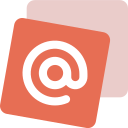
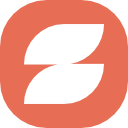
Added updated branding ✨ (improved branding includes updated images, README and CHANGELOG, and word choice throughout, thanks to the most popular LLM)

diff --git a/src/pages/popup/components/Footer.tsx b/src/pages/popup/components/Footer.tsx
@@ -4,25 +4,16 @@ import { version } from "/~/package.json";
 
 export default function Footer() {
   return (
-    <Box display="flex" px={2} py={1} justifyContent="space-between">
-      <Typography variant="caption">v{version}</Typography>
-      <Typography alignItems="center" variant="caption">
+    <Box px={2} py={1}>
+      <Typography variant="caption">
+        v{version}{" • "}
         See the open source code on{" "}
         <a
-          href="https://github.com/lewxdev/signup-subaddressing"
+          href="https://github.com/lewxdev/subify"
           rel="noopener noreferrer"
           target="_blank"
         >
           GitHub
-        </a>
-        {" • "}
-        Icon by{" "}
-        <a
-          href="https://www.flaticon.com/free-icon/at_1626329"
-          rel="noopener noreferrer"
-          target="_blank"
-        >
-          Pixelmeetup
         </a>
       </Typography>
     </Box>

diff --git a/src/pages/popup/components/DetailsTable.tsx b/src/pages/popup/components/DetailsTable.tsx
@@ -33,9 +33,9 @@ export default function DetailsTable() {
 
     const emailAddresses = options.find((item) => item.isLastSelected)!;
     const [address, domain] = emailAddresses.key.split("@");
-    const hash = alder32.str(activeTabURL.host).toString(16);
+    const tag = alder32.str(activeTabURL.host).toString(16);
 
-    return { value: `${address}+${hash}@${domain}` };
+    return { value: `${address}+${tag}@${domain}` };
   })();
 
   const handleCopy = async () => {

diff --git a/crxjs.config.ts b/crxjs.config.ts
@@ -17,8 +17,8 @@ export default defineManifest({
   description,
   icons: {
     "16": "assets/icon-16.png",
-    "128": "assets/icon-128.png",
-    "256": "assets/icon-256.png"
+    "48": "assets/icon-48.png",
+    "128": "assets/icon-128.png"
   },
 
   // optional

diff --git a/README.md b/README.md
@@ -1,45 +1,71 @@
-# Signup Subaddressing #
+<div align="center">
+  <img alt="Subify logo" height="60" src="./public/assets/logo.png" />
+  <br />
+  <br />
+  <a href="https://chrome.google.com/webstore/detail/mkjgbogdoogelppeoecjeidjljhhbcdg">
+    <img
+      alt="Chrome Web Store (version)"
+      src="https://img.shields.io/chrome-web-store/v/mkjgbogdoogelppeoecjeidjljhhbcdg?style=flat-square" />
+  </a>
+  <img
+    alt="Chrome Web Store (users)"
+    src="https://img.shields.io/chrome-web-store/users/mkjgbogdoogelppeoecjeidjljhhbcdg?style=flat-square" />
+</div>
 
-# About #
-This Chrome Extension creates a unique [subaddress](https://en.wikipedia.org/wiki/Email_address#Subaddressing)
-for the current active tab (given the user has provided a valid email address).
-This is done by retrieving the active tab URL, performing a hash on its [host](https://developer.mozilla.org/en-US/docs/Web/API/URL/host)
-and creating a unique subaddress using the first eight characters of the hash as
-the tag.
+---
 
-For example, this is useful in circumstances where the user is hesitant to give
-out their email address to a suspicious website or a certain website is known
-for sending unwanted mail. Using subaddresses in this way makes it easy to clear
-email inboxes by blocking emails sent to some subaddress rather than
-unsubscribing (which relies on the services' servers and may provide a non-
-intuitive interface)
+Subify is a web extension for Google Chrome[^1] that enables users to create
+unique [subaddresses](https://en.wikipedia.org/wiki/Email_address#Subaddressing)
+for each website they visit (done by using the
+[adler-32](https://en.wikipedia.org/wiki/Adler-32)[^2] checksum of the
+[host](https://developer.mozilla.org/en-US/docs/Web/API/URL/host) of the active
+tab).
 
-## Permissions ##
+This empowers users to more effectively manage their inbox and protect their
+privacy. Useful when providing an email address to a website that may be
+suspicious or known for sending unwanted mail. Using subaddresses in this way
+makes it easy to determine the source of emails and create filters to block
+specific emails without unsubscribing (which often relies on 3rd-party services
+that likely provide a non-intuitive interface).
+
+Built with ♥ and TypeScript :)
+
+## Permissions
+
 The extension requests only minimal necessary permissions in order to respect
-privacy and adhere to [the Web Store's updated privacy policy](https://developer.chrome.com/docs/webstore/user_data/)
+privacy and adhere to the Chrome Web Store's
+[updated privacy policy](https://developer.chrome.com/docs/webstore/user_data/).
 
-+ [`activeTab`](https://developer.chrome.com/docs/extensions/mv3/manifest/activeTab/) -
-Allows the extension to retrieve the URL of the currently active tab
-+ [`storage`](https://developer.chrome.com/docs/extensions/reference/storage/) -
-Allows the extension to store the user-provided email address (which is parsed
-into the resulting subaddress)
+- [`activeTab`](https://developer.chrome.com/docs/extensions/mv3/manifest/activeTab/) -
+  Allows the extension to retrieve the URL of the currently active tab
+- [`storage`](https://developer.chrome.com/docs/extensions/mv3/manifest/storage/) -
+  Allows the extension to store the user-provided email address(es)
 
-## Dependencies ##
-In development, the extension requires a few dependencies for the UI and
-functionality.
+## Dependencies
 
-* [`@mui/material`](https://mui.com/) - Used as the framework for visual
-components such as the popup, allowing for rapid development of UI.
-(`@emotion/react`, `@emotion/styled`, and `@mui/icons-material` are also
-included)
-* [`alder-32`](https://www.npmjs.com/package/alder-32) - Provides the hashing
-function used in the subaddress
-* [`lodash`](https://lodash.com/) - While not strictly necessary, this library
-provides a number of useful functions for manipulating strings and objects
-* [`react`](https://reactjs.org/) - Serves as the framework for the extension's
-UI (`react-dom` is also included)
-* [`zod`](https://zod.dev/) - Provides types, schema, and validation throughout
+The extension requires a few dependencies for the UI and functionality.
 
-## Contributing ##
+- [`@mui/material`](https://mui.com/) - Used as the framework for visual
+  components such as the popup, allowing for rapid development of UI.
+  (`@emotion/react`, `@emotion/styled`, and `@mui/icons-material` are also
+  included)
+- [`adler-32`](https://www.npmjs.com/package/adler-32) - Provides the hashing
+  function used in the subaddress
+- [`lodash`](https://lodash.com/) - While not strictly necessary, this library
+  provides a number of useful functions for manipulating strings and objects
+- [`react`](https://reactjs.org/) - Serves as the framework for the extension's
+  UI (`react-dom` is also included)
+- [`zod`](https://zod.dev/) - Provides types, schema, and validation throughout
+
+---
+
 Contributing is welcome, just be sure to fork the package repository and submit
 a pull request on your changes.
+
+[^1]:
+    Currently only available on the Chrome Web Store, but may be made
+    available on the Firefox Add-ons Store in the future.
+
+[^2]:
+    Adler-32 was chosen as the checksum function because of it's speed,
+    collision-resistance, and length (8 characters).

diff --git a/CHANGELOG.md b/CHANGELOG.md
@@ -7,53 +7,60 @@ and generally adheres to [Semantic Versioning](https://semver.org/spec/v2.0.0.ht
 
 ## [Unreleased]
 
-## [2.0.0] - 2023-03-29
+## [2.0.0] - 2023-04-01
 
 ### Added
-- `CHANGELOG.md` file, following [Keep a Changelog](https://keepachangelog.com/en/1.0.0/)
-format.
+
+- `CHANGELOG.md` file, to document changes made to the project.
 - `.editorconfig` and `.prettierrc` files, to keep code style consistent.
 - programmatic manifest generation and dynamic development server (using
-[@crxjs/vite-plugin](https://crxjs.dev/vite-plugin/)).
+  [@crxjs/vite-plugin](https://crxjs.dev/vite-plugin/)).
 - `useChromeStorageWithReducer()` hook, to allow for more complex state
-management.
+  management.
 - `useEmailAddresses()`, which makes use of the new reducer-based hook to
-store and interact with *multiple* email addresses.
+  store and interact with _multiple_ email addresses.
 - the use of an Autocomplete component, to allow for selecting one of
-potentially multiple stored email addresses.
-- a footer to the Popup component, to display the current extension version,
-link to the GitHub repository, and attribution for the free icon.
+  potentially multiple stored email addresses.
+- a footer to the Popup component, to display the current extension version and
+  link to the GitHub repository.
 - the option to save an email address as the default, (which will be used
-as a fallback when deleting the last selected, and the preferred for autofill
-[unimplemented]).
+  as a fallback when deleting the last selected, and the preferred for autofill
+  [unimplemented]).
 - CI/CD pipeline using GitHub Actions, to automatically build and publish
-releases of the extension to the Chrome Web Store. As outlined in
-[this article](https://jam.dev/blog/automating-chrome-extension-publishing/).
+  releases of the extension to the Chrome Web Store. As outlined in
+  [this article](https://jam.dev/blog/automating-chrome-extension-publishing/).
+- branding for the extension, now including promotional images and improved
+  screenshots, as outlined in
+  [the documentation](https://developer.chrome.com/docs/webstore/images/).
 
 ### Changed
+
+- extension name and related branding to "Subify", to improve discoverability
+  and general recognition.
 - `README.md` file, to reflect the changes made to the project.
 - development environment to use [pnpm](https://pnpm.js.org/) (instead of
-[npm](https://www.npmjs.com/)) and [Vite.js](https://vitejs.dev/) (instead of
-[CRA](https://create-react-app.dev/)).
+  [npm](https://www.npmjs.com/)) and [Vite.js](https://vitejs.dev/) (instead of
+  [CRA](https://create-react-app.dev/)).
 - source code to rely on [TypeScript](https://www.typescriptlang.org/) over
-vanilla JavaScript.
+  vanilla JavaScript.
 - project structure for improved organization and scalability.
 - `useChromeStorage()` to `useChromeStorageWithState()` to differentiate it from
-the new reducer-based hook. It also now:
+  the new reducer-based hook. It also now:
   - makes use of `useRef()` to store the current storage value, instead of
-  `useState`, to avoid unnecessary re-renders.
+    `useState`, to avoid unnecessary re-renders.
   - makes full use of TypeScript generics to support any type of storage value.
 - Alert component is now wrapped in a `Context.Provider` to allow access to
-component methods from anywhere in the Popup component tree.
-- **BREAKING CHANGE**: hashing algorithm used to generate the resulting email
-subaddress has been changed from `sha256` to `alder32`, to negate potential
-collisions when slicing.
+  component methods from anywhere in the Popup component tree.
+- (**BREAKING**) subaddress from `sha256` hash to `adler32` checksum of the host
+  (as it's a shorter, faster, and more collision-resistant alternative).
 
 ### Removed
+
 - `package-lock.json` file, as it is no longer needed.
 - AppBar component from the Popup component, as it was not providing any
-additional, relevant information or functionality.
+  additional, relevant information or functionality.
 
 ### Fixed
+
 - styling of the details table in the Popup component for consistent spacing
-and alignment.
+  and alignment.
